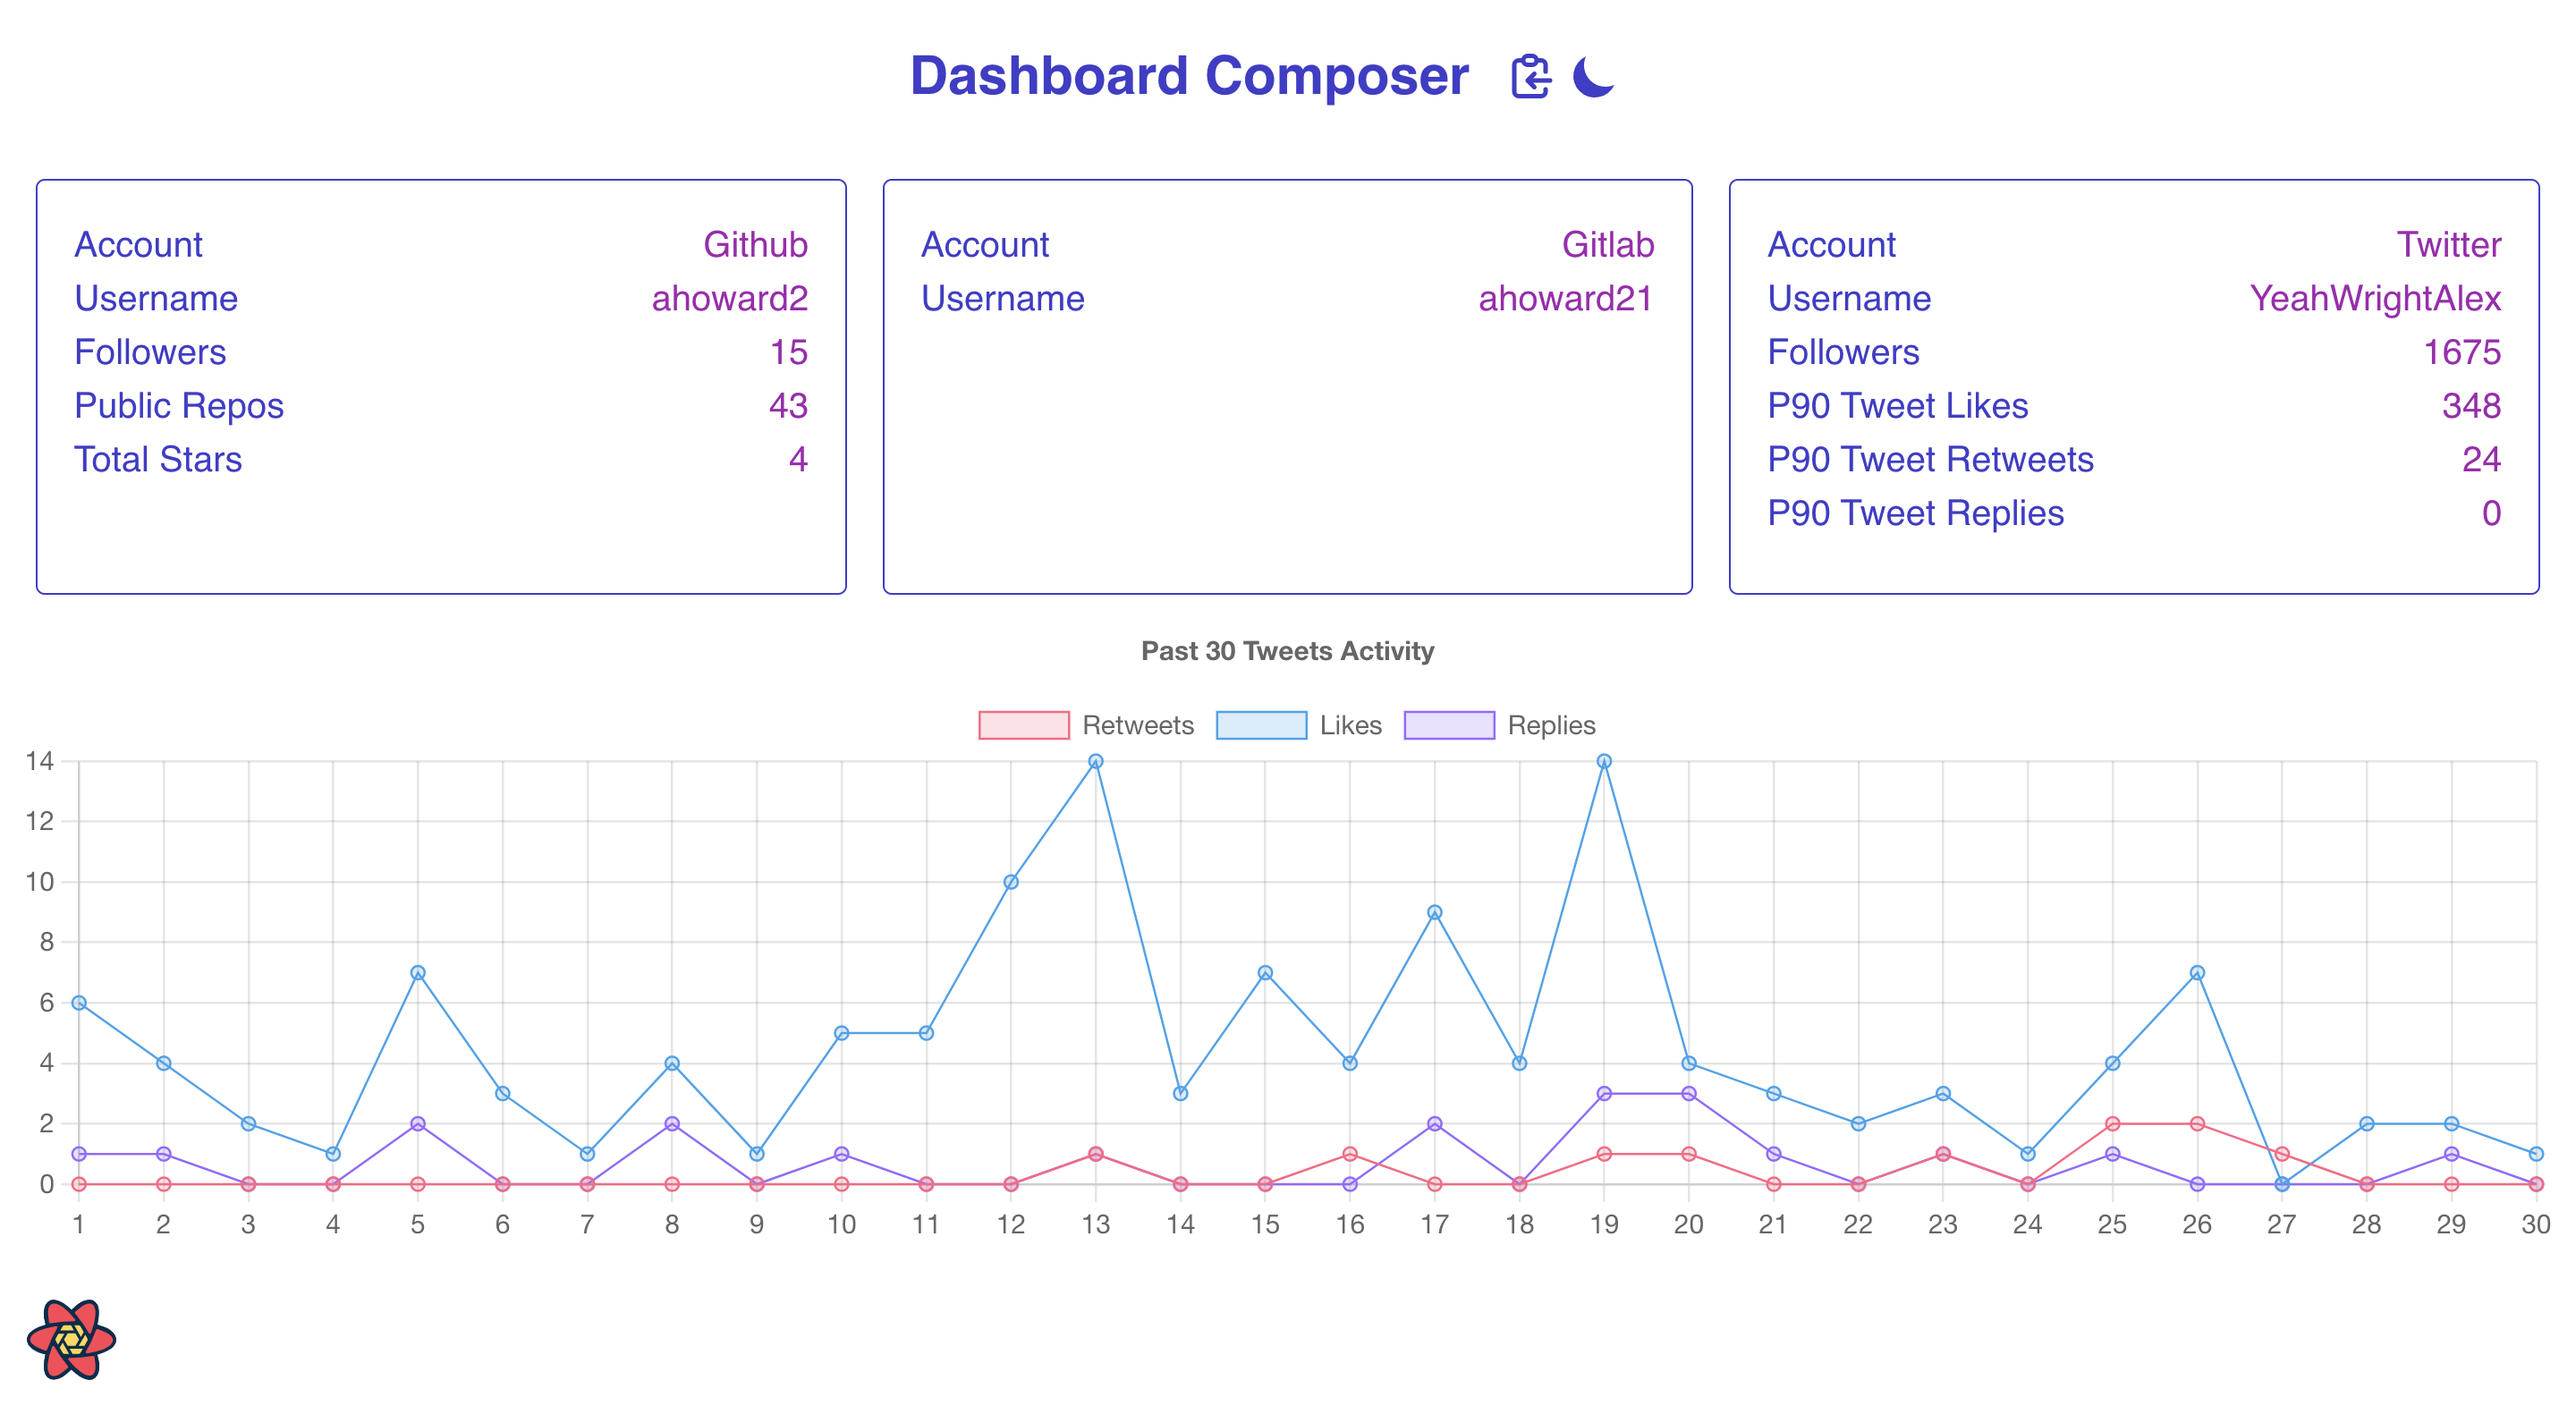
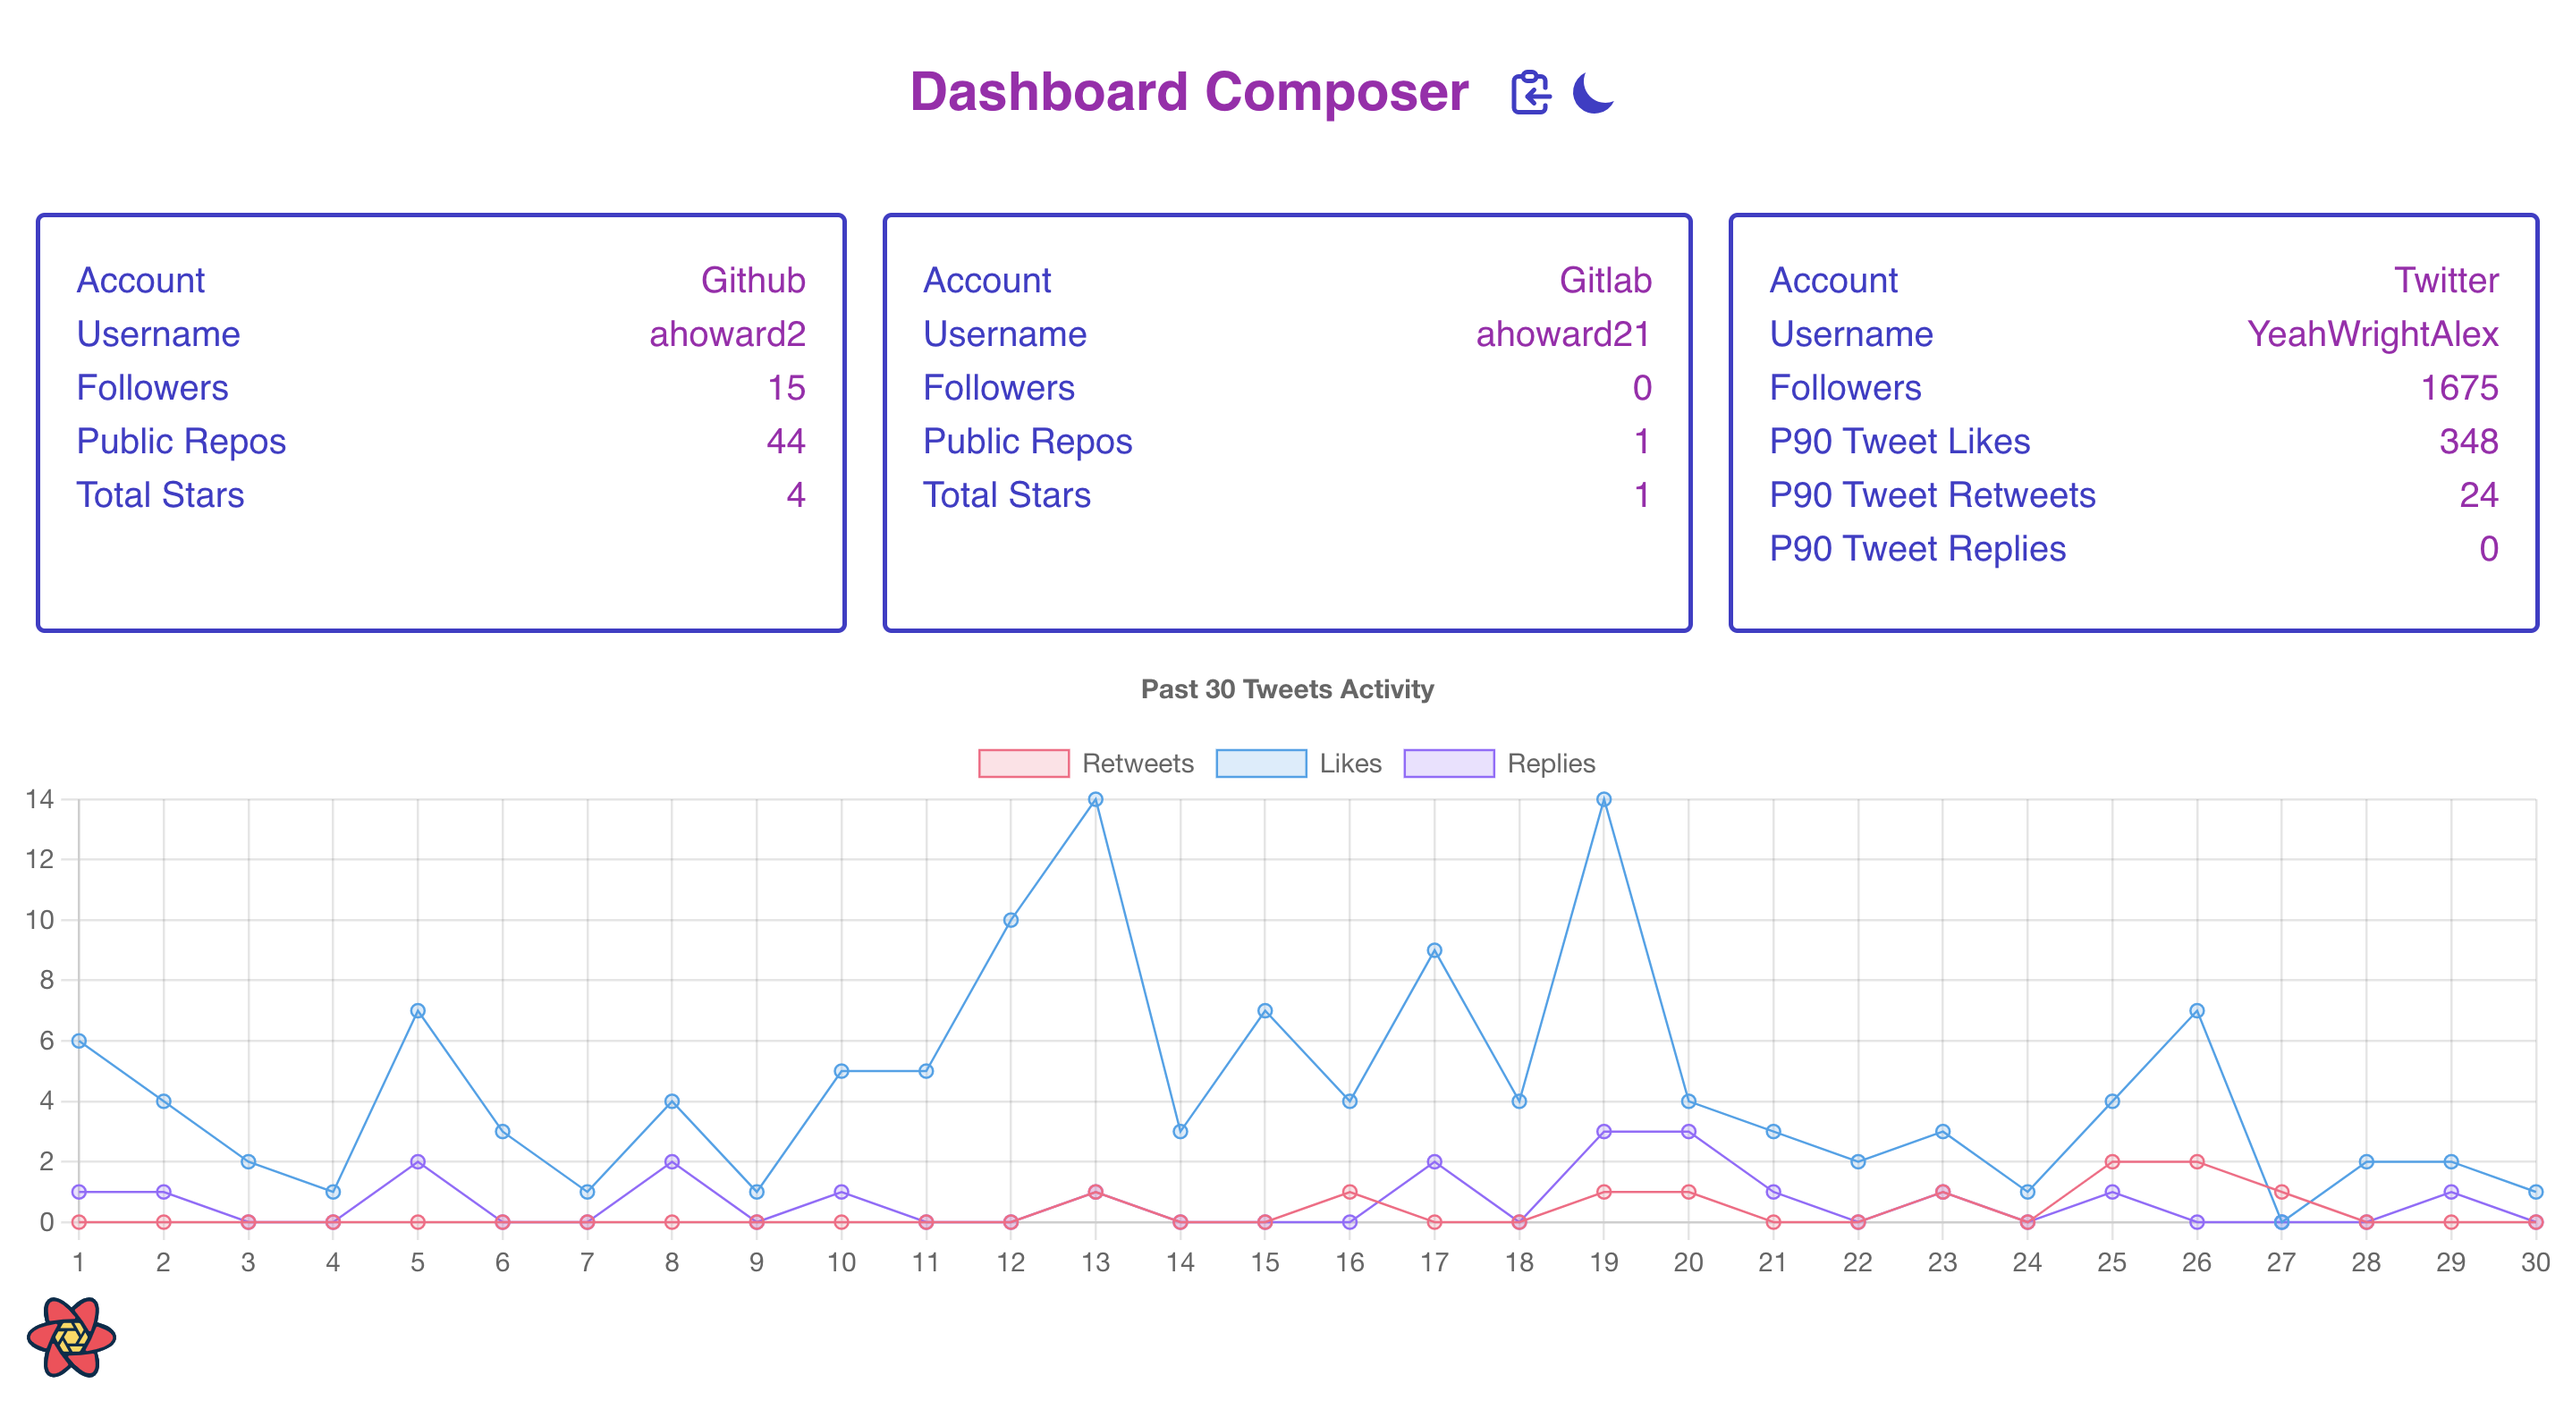
minor style updates and readme images

diff --git a/src/client/components/Header/Header.tsx b/src/client/components/Header/Header.tsx
@@ -9,7 +9,7 @@ type HeaderProps = {
 const Header = ({ headerData, clipper }: HeaderProps) => {
   const { title } = headerData ?? {};
   return (
-    <header className="flex w-screen items-center justify-between p-2 md:justify-center md:p-4">
+    <header className="flex w-screen items-center justify-between p-2 md:justify-center md:px-4 md:py-6">
       <h3 className="text-lg font-black text-fuchsia-700 dark:text-teal-300 md:px-0 md:text-2xl">
         {title ? title : "..."}
       </h3>
